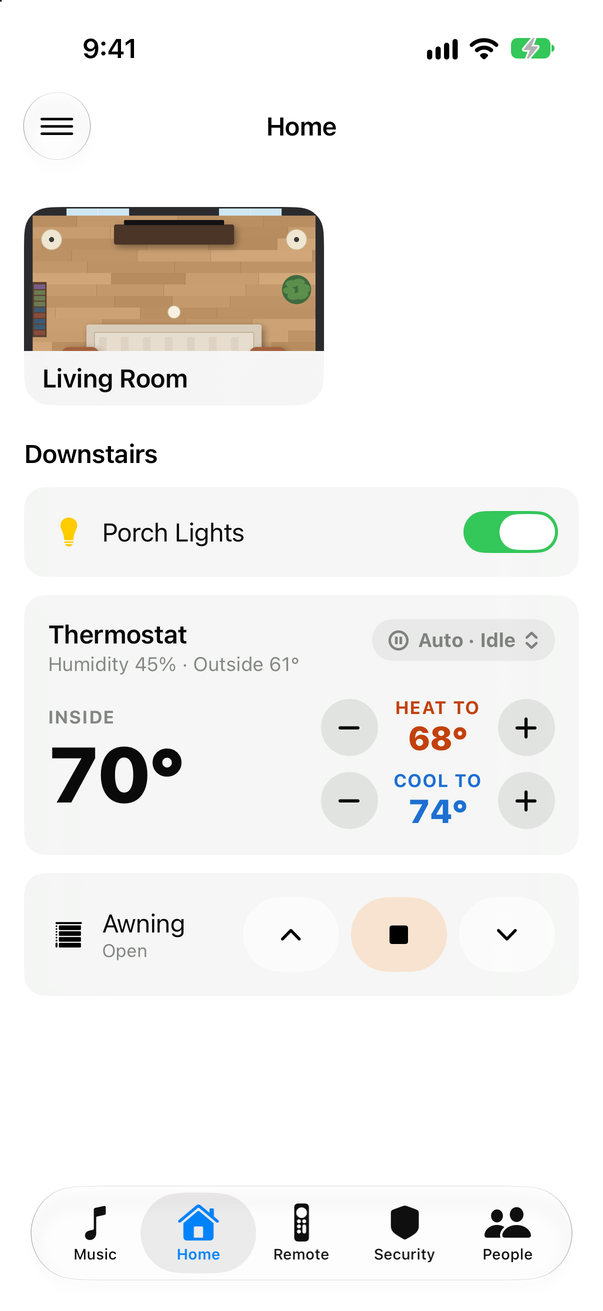
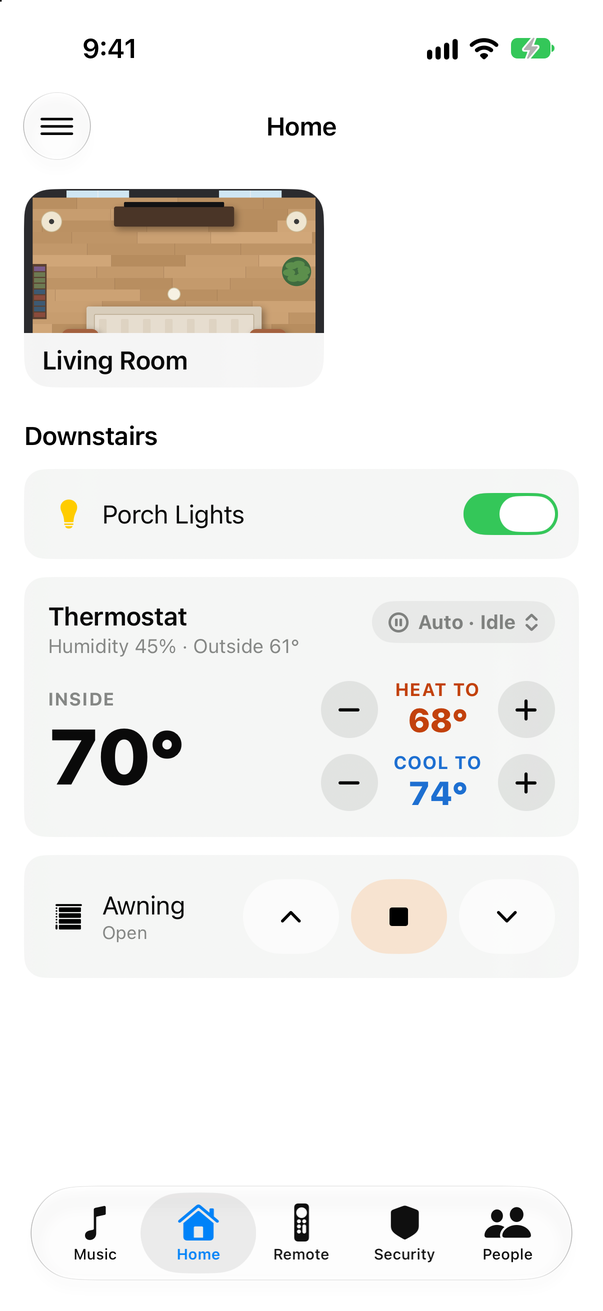
A page that's only a remote fits the screen instead of scrolling
It's laid out at its natural height and, on a phone too short for it,
scaled down evenly to fit. It stays in a scroll view for pull-to-refresh,
with nothing to scroll.

diff --git a/Hassonic/DashboardView.swift b/Hassonic/DashboardView.swift
@@ -24,24 +24,47 @@ struct DashboardPageView: View {
         }
     }
 
+    @ViewBuilder private var cards: some View {
+        if let errorMessage = configurationLoader.errorMessage {
+            DashboardConfigurationErrorBanner(message: errorMessage)
+        }
+
+        if !rooms.isEmpty {
+            RoomsStrip(rooms: rooms)
+        }
+
+        ForEach(Array(page.sections.enumerated()), id: \.offset) { _, section in
+            DashboardSectionView(section: section)
+        }
+    }
+
+    /// A page of nothing but remotes is a remote: it fits the screen, shrunk
+    /// as needed on a smaller phone, rather than scrolling.
+    private var fitsScreen: Bool {
+        let cards = page.sections.flatMap(\.cards)
+        return rooms.isEmpty && !cards.isEmpty && cards.allSatisfy {
+            if case .tvRemote = $0 { return true } else { return false }
+        }
+    }
+
     private var content: some View {
         ScrollView {
-            LazyVStack(alignment: .leading, spacing: 16) {
-                if let errorMessage = configurationLoader.errorMessage {
-                    DashboardConfigurationErrorBanner(message: errorMessage)
+            if fitsScreen {
+                // Still in a scroll view, for pull-to-refresh; it never has
+                // anything to scroll.
+                ShrinkToFit {
+                    VStack(alignment: .leading, spacing: 16) { cards }
+                        .padding(.top, 4)
+                        .padding(.bottom, 8)
                 }
-
-                if !rooms.isEmpty {
-                    RoomsStrip(rooms: rooms)
+                .containerRelativeFrame(.vertical)
+            } else {
+                LazyVStack(alignment: .leading, spacing: 16) {
+                    cards
                 }
-
-                ForEach(Array(page.sections.enumerated()), id: \.offset) { _, section in
-                    DashboardSectionView(section: section)
-                }
+                .padding(.top, 4)
+                .padding(.bottom)
             }
-            // Little above, so a tall card like the remote clears the tab bar.
-            .padding(.top, 4)
-            .padding(.bottom)
         }
         .reloadsConfigurationOnPull()
         .navigationTitle(page.title)
@@ -56,6 +79,29 @@ struct DashboardPageView: View {
             if let room = rooms.first(where: { $0.id == roomID }) {
                 DashboardPageView(page: room, isPushed: true)
             }
+        }
+    }
+}
+
+/// Lays its content out at its natural height and scales the whole thing
+/// down, evenly, when that's taller than the space it has. Full width either
+/// way: it's laid out wider by the same factor it's shrunk by.
+private struct ShrinkToFit<Content: View>: View {
+    @ViewBuilder let content: Content
+
+    @State private var naturalHeight: CGFloat = 0
+
+    var body: some View {
+        GeometryReader { proxy in
+            let scale = naturalHeight > proxy.size.height && naturalHeight > 0
+                ? proxy.size.height / naturalHeight
+                : 1
+            content
+                .frame(width: proxy.size.width / scale)
+                .fixedSize(horizontal: false, vertical: true)
+                .onGeometryChange(for: CGFloat.self) { $0.size.height } action: { naturalHeight = $0 }
+                .scaleEffect(scale, anchor: .top)
+                .frame(width: proxy.size.width, height: proxy.size.height, alignment: .top)
         }
     }
 }
